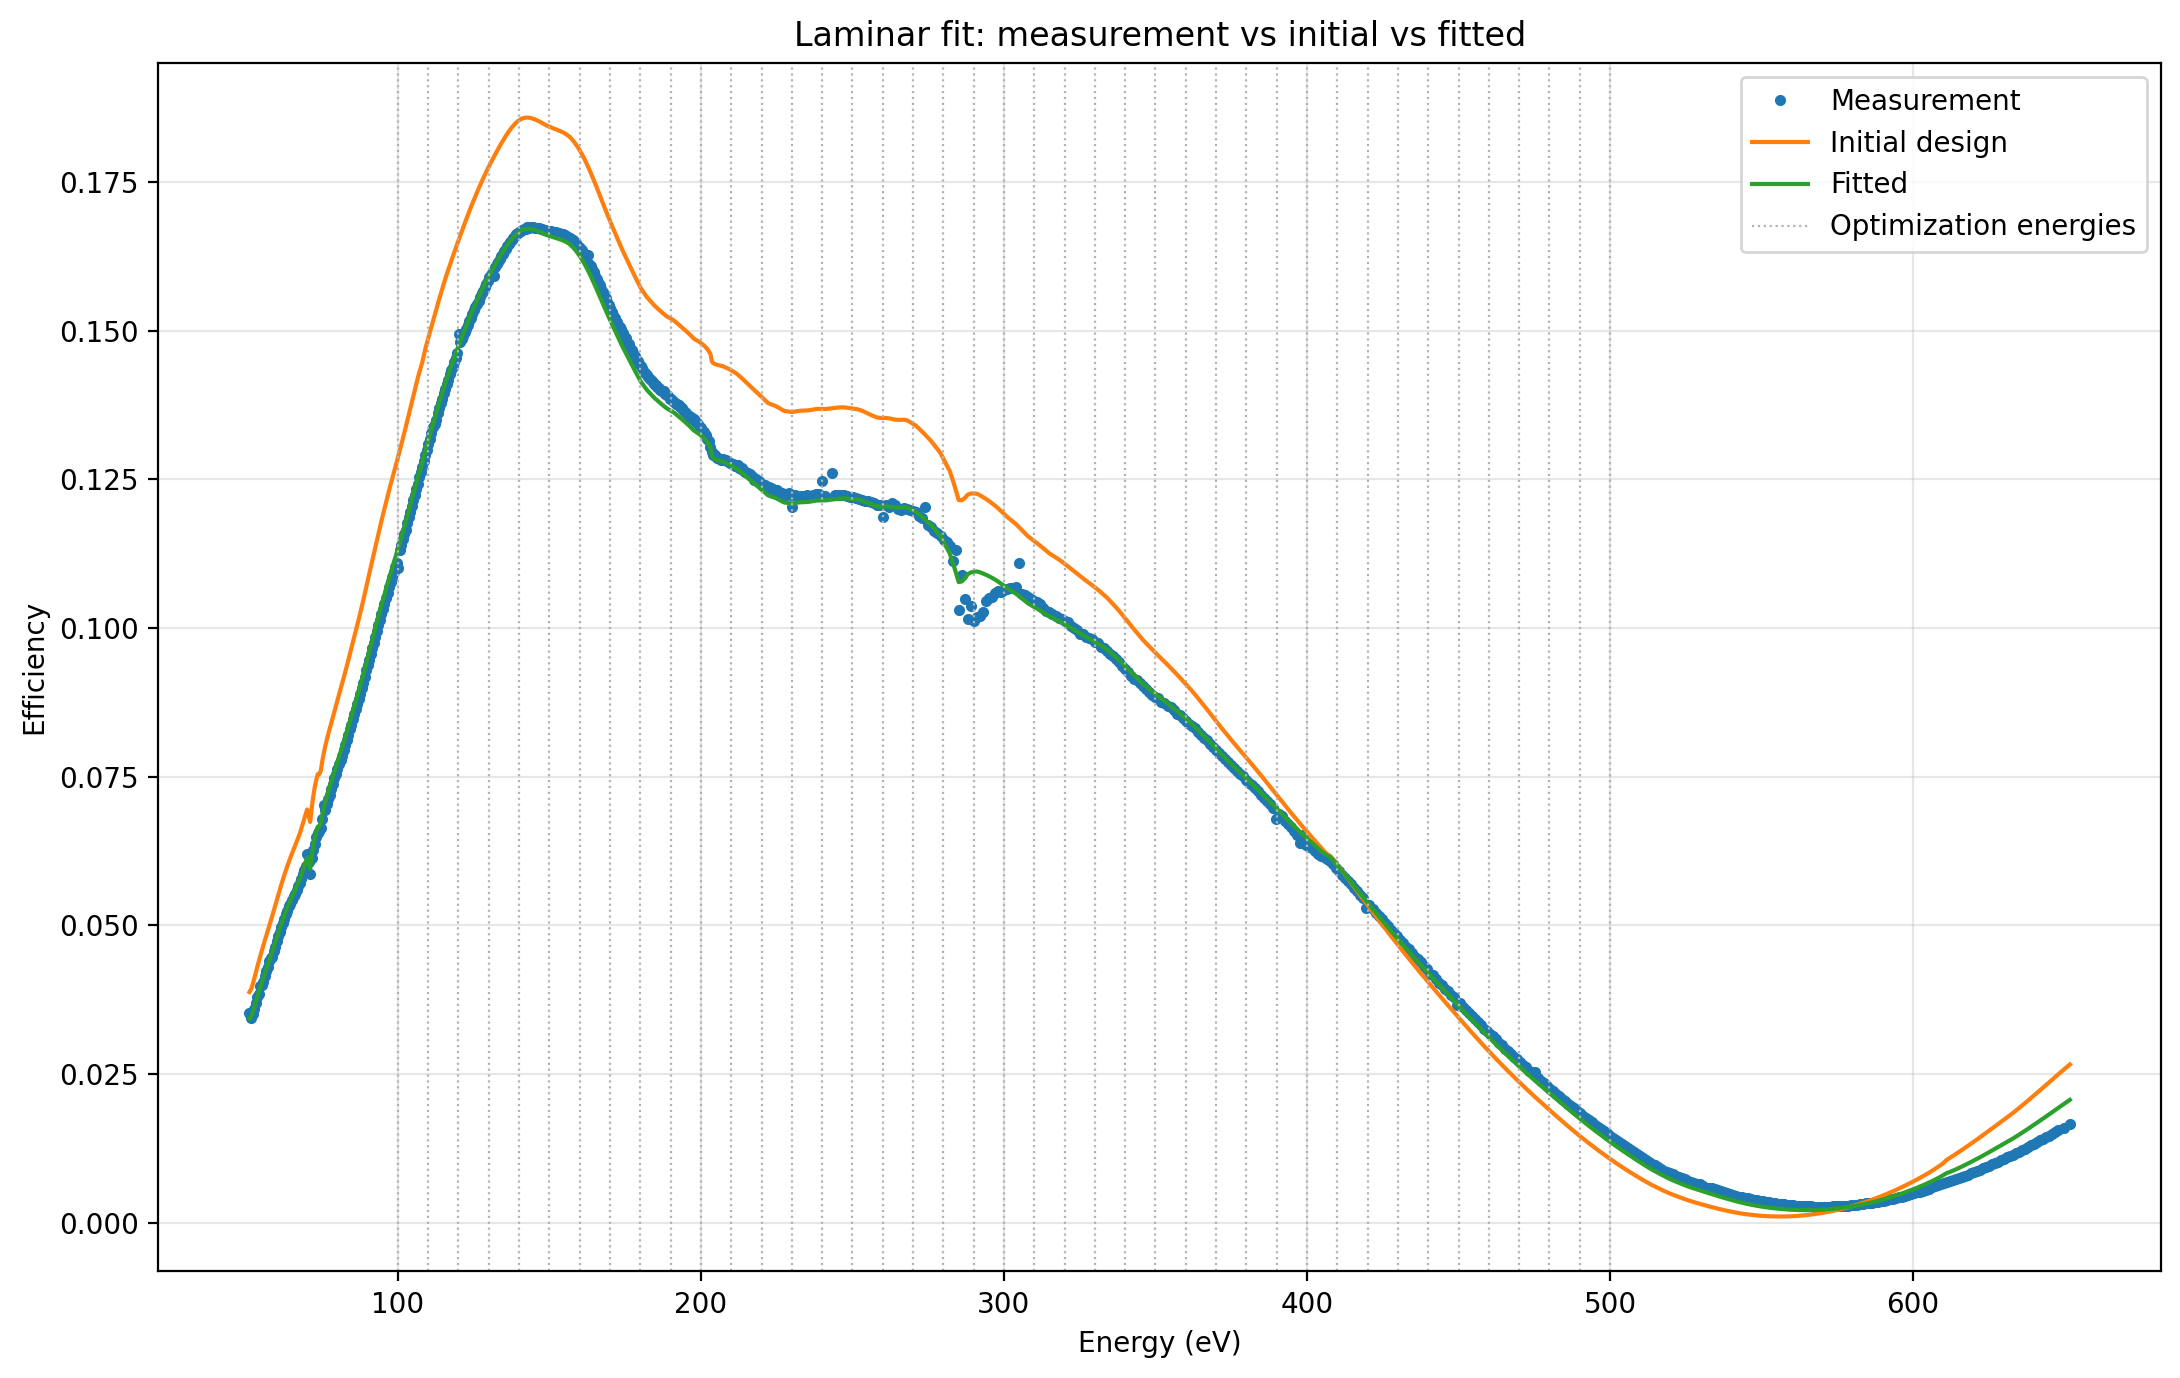
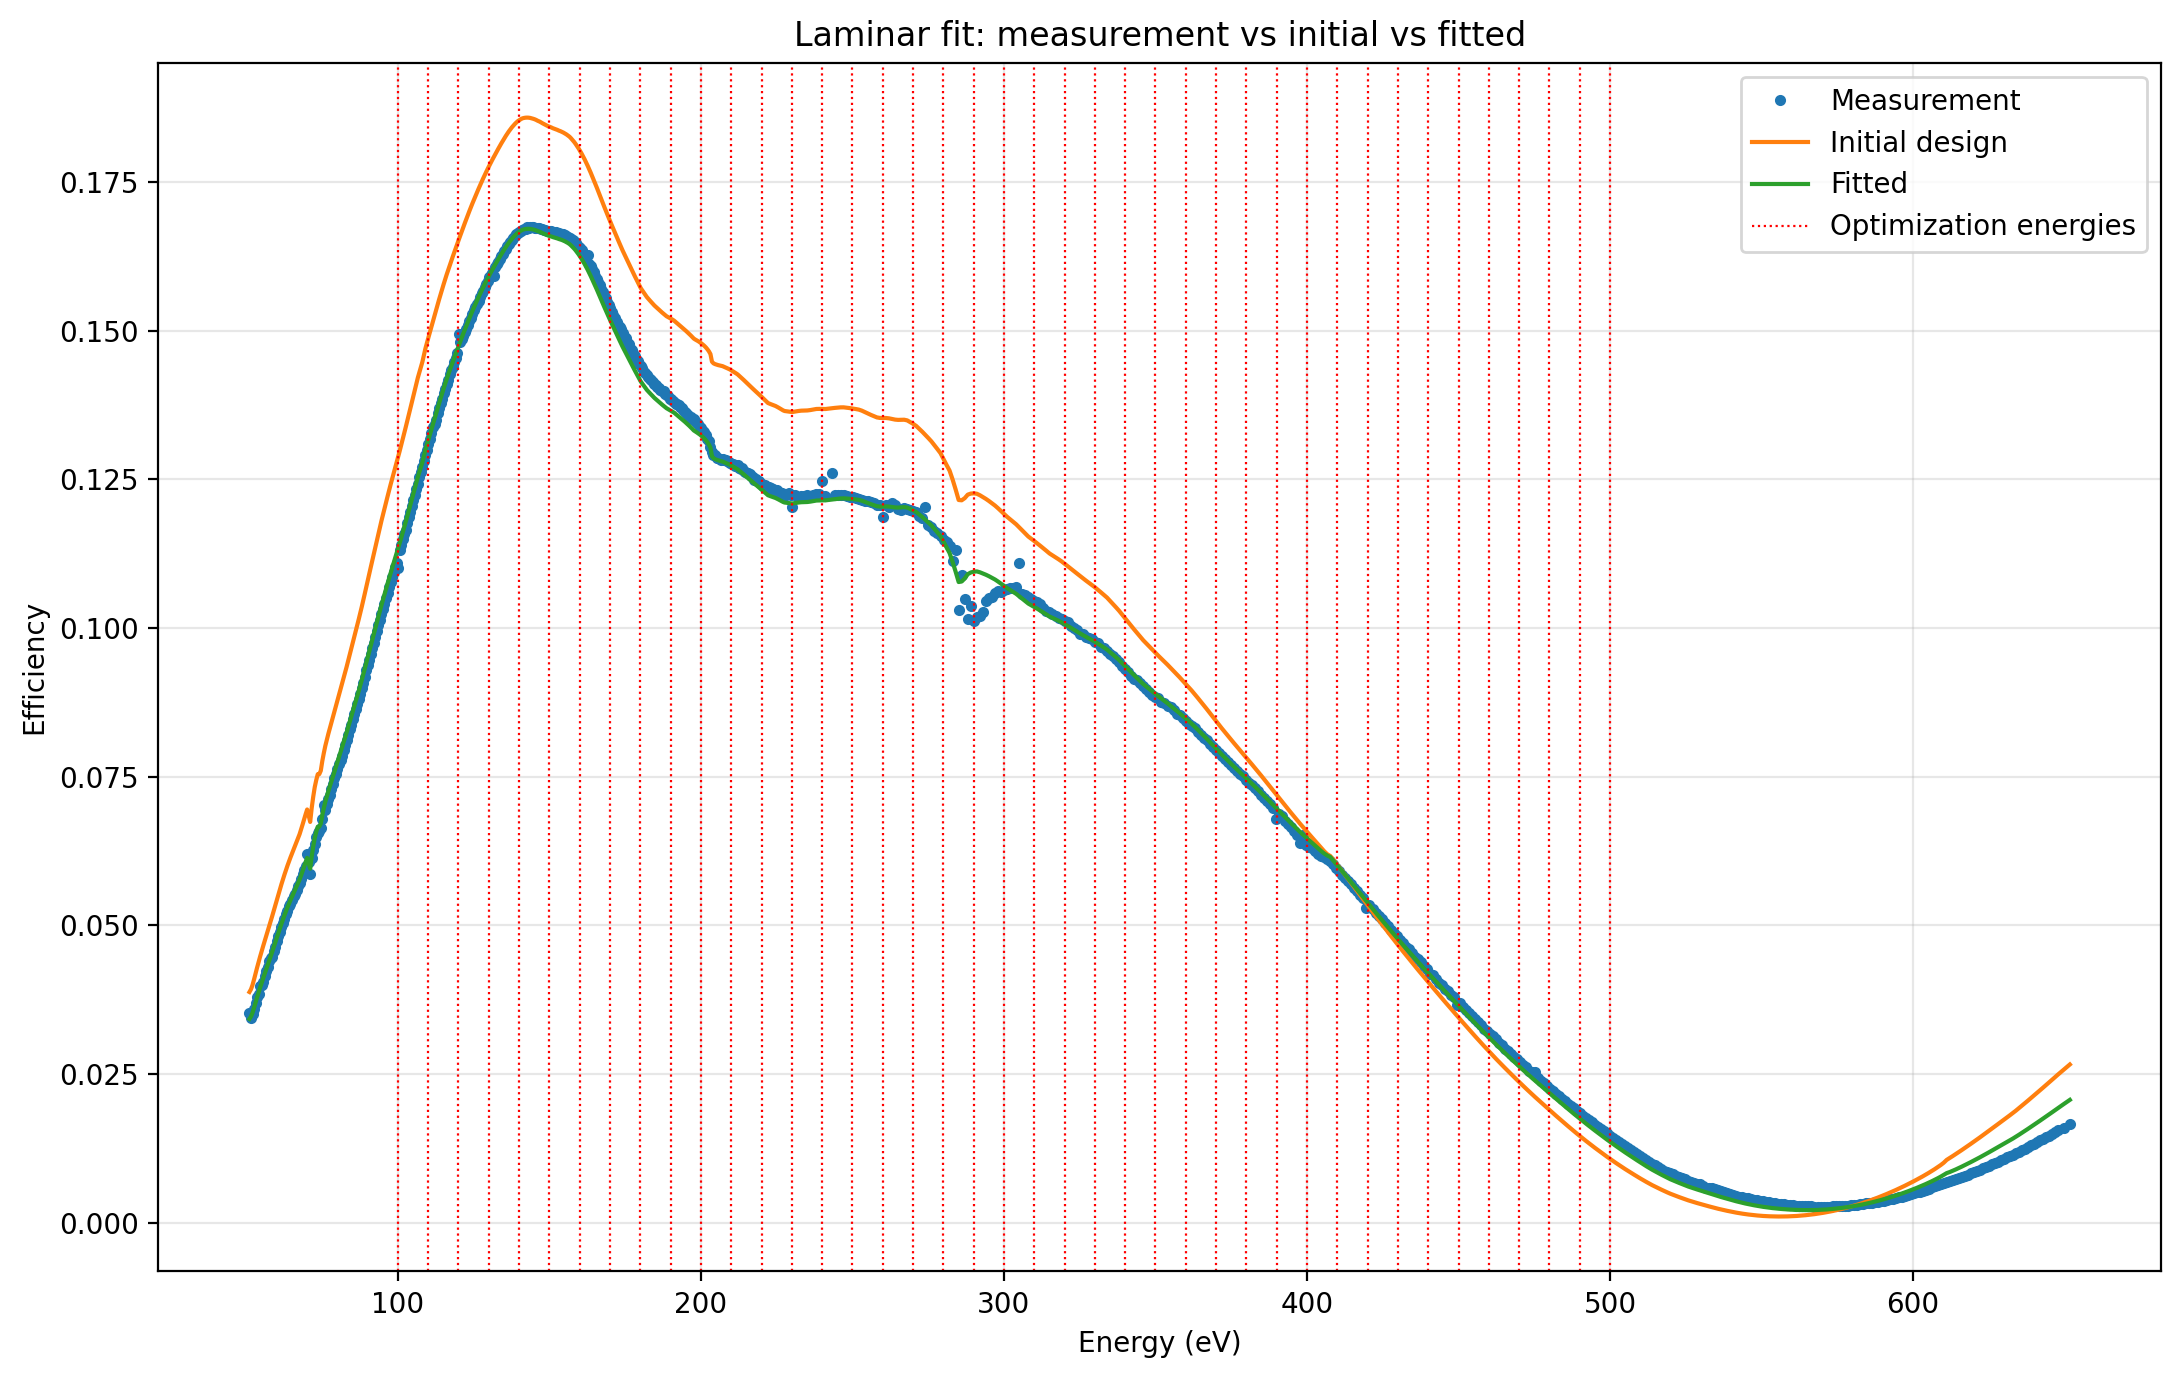
red lines

diff --git a/examples/optimizer/3_plot_laminar_fit_comparison.py b/examples/optimizer/3_plot_laminar_fit_comparison.py
@@ -61,7 +61,7 @@ if evaluation_energies_ev:
         evaluation_energies_ev,
         y_min,
         y_max,
-        colors="0.7",
+        colors="red",
         linestyles=":",
         linewidth=0.8,
         label="Optimization energies",
@@ -70,7 +70,7 @@ if evaluation_energies_ev:
 axis.set_xlabel("Energy (eV)")
 axis.set_ylabel("Efficiency")
 axis.set_title("Laminar fit: measurement vs initial vs fitted")
-axis.grid(alpha=0.3)
+# axis.grid(alpha=0.3)
 axis.legend(loc="best")
 figure.tight_layout()
 figure.savefig(comparison_plot_path, dpi=200, bbox_inches="tight")
